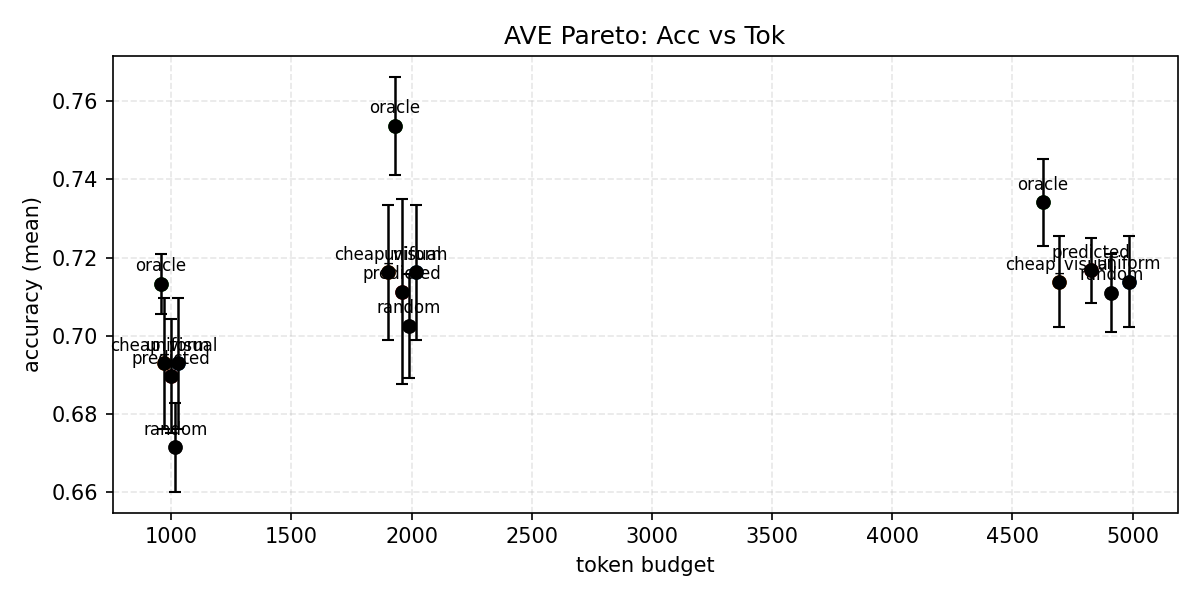
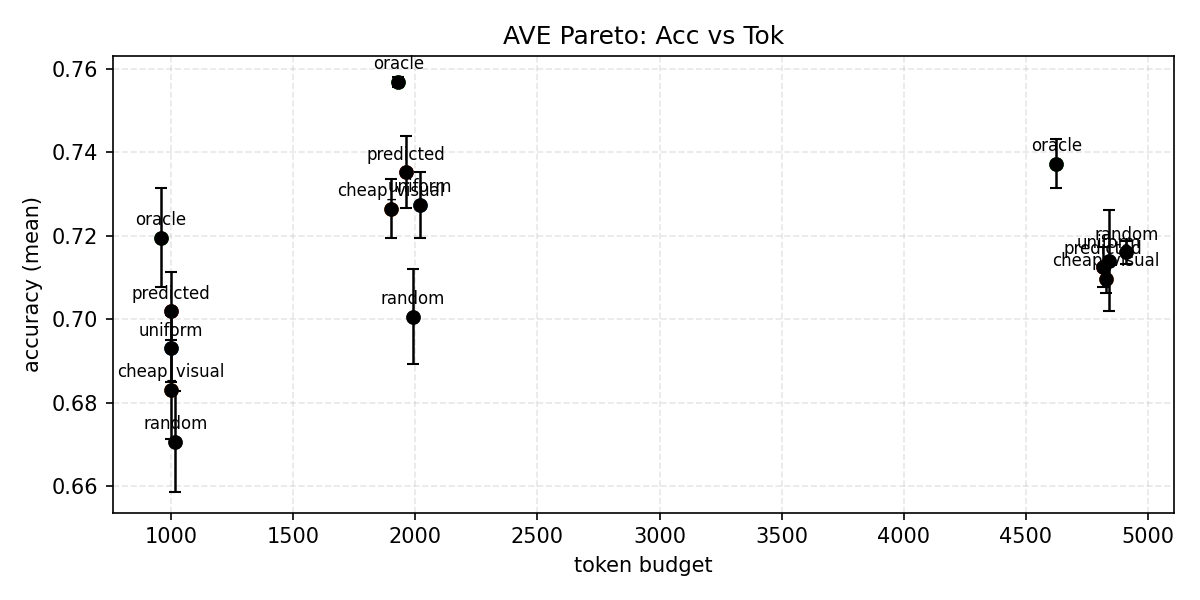
oral: PSP-align fig1/fig3 + support psp degradation

diff --git a/avs/experiments/mde_ltl.py b/avs/experiments/mde_ltl.py
@@ -576,6 +576,7 @@ def run_oracle_vs_predicted_ave_official(
     eventness_method: str,
     cfg: P0Config,
     include_cheap_visual: bool,
+    scores_json: Path | None,
 ) -> dict:
     """
     Minimal decision experiment for MDE-2 on AVE: compare Oracle vs Predicted (and controls)
@@ -599,12 +600,45 @@ def run_oracle_vs_predicted_ave_official(
     labels_by_clip = {**_labels_for_ids(index, train_ids), **_labels_for_ids(index, eval_ids)}
     all_ids = sorted(set(train_ids + eval_ids))
 
-    # Predicted anchors: either from a direct score function (energy/stride/av_fused) or computed inside P0
-    # (e.g., supervised audio_basic_* methods).
-    scores_by_clip_override = None
-    if str(eventness_method) in ("energy", "energy_delta", "energy_stride_max", "av_fused", "av_fused_prod"):
+    # Predicted anchors:
+    # - Either from an explicit Stage-1 score cache (scores_json), OR
+    # - from a direct score function (energy/stride/av_fused), OR
+    # - computed inside P0 (e.g., supervised audio_basic_* methods).
+    scores_by_clip_override: dict[str, list[float]] | None = None
+    if scores_json is not None:
+        scores_json = Path(scores_json)
+        if scores_json.exists():
+            scores_by_clip_override = _load_scores_json(scores_json)
+        else:
+            scores_by_clip_override = {}
+
+        missing_scores = [cid for cid in all_ids if cid not in scores_by_clip_override]
+        if missing_scores:
+            from avs.experiments.ave_p0_sweep import _compute_scores_by_clip  # local import: heavy
+
+            computed = _compute_scores_by_clip(
+                clip_ids=missing_scores,
+                processed_dir=processed_dir,
+                caches_dir=caches_dir,
+                num_segments=10,
+                eventness_method=str(eventness_method),
+                audio_device=str(audio_device),
+                ast_pretrained=bool(ast_pretrained),
+                panns_random=False,
+                panns_checkpoint=None,
+                audiomae_random=False,
+                audiomae_checkpoint=None,
+                train_ids=train_ids,
+                labels_by_clip=labels_by_clip,
+            )
+            scores_by_clip_override.update({str(k): [float(x) for x in v] for k, v in computed.items()})
+            _write_scores_json(path=scores_json, eventness_method=str(eventness_method), num_segments=10, scores_by_clip=scores_by_clip_override)
+    elif str(eventness_method) in ("energy", "energy_delta", "energy_stride_max", "av_fused", "av_fused_prod"):
         scores_by_clip_override = _scores_predicted(
-            clip_ids=all_ids, processed_dir=processed_dir, num_segments=10, eventness_method=str(eventness_method)
+            clip_ids=all_ids,
+            processed_dir=processed_dir,
+            num_segments=10,
+            eventness_method=str(eventness_method),
         )
 
     if str(eventness_method) in ("energy_autoshift_clipdiff", "energy_autoshift_clipdiff_pos"):
@@ -1303,6 +1337,8 @@ def build_parser() -> argparse.ArgumentParser:
             "moe_energy_clipdiff",
             "vision_clipdiff",
             "panns",
+            # External supervised AVE temporal localizer as Stage-1 (use with --scores-json).
+            "psp_avel_evt",
             # Supervised audio-only eventness (computed inside P0).
             "audio_basic_lr",
             "audio_basic_mlp",
@@ -1335,6 +1371,18 @@ def build_parser() -> argparse.ArgumentParser:
             "vision_binary_lr",
             "vision_binary_mlp",
         ],
+    )
+    ovp.add_argument(
+        "--base-config-json",
+        type=Path,
+        default=None,
+        help="Optional best_config.json from `ave_p0_sweep` to fix all P0 knobs (including the low/base/high triad).",
+    )
+    ovp.add_argument(
+        "--scores-json",
+        type=Path,
+        default=None,
+        help="Optional Stage-1 score cache; missing ids will be filled and written back. Required for external Stage-1 methods like psp_avel_evt.",
     )
     ovp.add_argument("--include-cheap-visual", action="store_true", help="Also run cheap-visual anchors as a control.")
     ovp.add_argument("--audio-device", type=str, default="cpu", help="Device for audio probes like PANNs (e.g., cpu, cuda:0).")
@@ -1620,6 +1668,10 @@ def main(argv: list[str] | None = None) -> int:
             head="temporal_conv",
             temporal_kernel_size=int(args.temporal_kernel_size),
         )
+        if args.base_config_json is not None:
+            cfg_obj = json.loads(Path(args.base_config_json).read_text(encoding="utf-8"))
+            cfg = _p0_config_from_json(cfg_obj)
+            cfg = replace(cfg, patch_size=16)  # enforce the project-wide default
 
         rep = run_oracle_vs_predicted_ave_official(
             out_dir=args.out_dir,
@@ -1646,6 +1698,7 @@ def main(argv: list[str] | None = None) -> int:
             eventness_method=str(args.eventness_method),
             cfg=cfg,
             include_cheap_visual=bool(args.include_cheap_visual),
+            scores_json=Path(args.scores_json) if args.scores_json is not None else None,
         )
         print(rep["out_json"])
         return 0

diff --git a/avs/experiments/degradation_accuracy.py b/avs/experiments/degradation_accuracy.py
@@ -3,6 +3,7 @@ from __future__ import annotations
 import argparse
 import hashlib
 import json
+import math
 import random
 import time
 from dataclasses import replace
@@ -222,6 +223,72 @@ def _scores_energy_stride_max_augmented(
         float(s)
         for s in eventness_energy_stride_max_per_second(x, int(sr), num_segments=int(num_segments), stride_s=0.2, win_s=0.4)
     ]
+
+
+def _round_half_away_from_zero(x: float) -> int:
+    # Python's `round(±0.5)` uses bankers rounding; here we want ±0.5 -> ±1.
+    xf = float(x)
+    if xf >= 0.0:
+        return int(math.floor(xf + 0.5))
+    return int(math.ceil(xf - 0.5))
+
+
+def _shift_scores_pad_zero(scores: list[float], shift_steps: int, *, num_segments: int) -> list[float]:
+    """
+    Shift a per-segment score sequence by integer steps, padding with zeros.
+    Positive shift delays events (pads at the front); negative shift advances events.
+    """
+    s = [float(v) for v in (scores or [])[: int(num_segments)]]
+    if len(s) < int(num_segments):
+        s = s + [0.0] * (int(num_segments) - len(s))
+
+    k = int(shift_steps)
+    if k == 0:
+        return s
+    if k > 0:
+        k = min(k, int(num_segments))
+        return [0.0] * k + s[: int(num_segments) - k]
+
+    k = min(-k, int(num_segments))
+    return s[k:] + [0.0] * k
+
+
+def _scores_scorespace_augmented(
+    *,
+    base_scores: list[float],
+    shift_s: float,
+    snr_db: float,
+    silence_ratio: float,
+    rng: np.random.Generator,
+    num_segments: int,
+) -> list[float]:
+    """
+    Proxy corruption for external Stage-1 score caches (e.g., PSP):
+    apply shift/noise/silence directly in score space.
+    """
+    shift_steps = _round_half_away_from_zero(float(shift_s))
+    s = _shift_scores_pad_zero(list(base_scores), shift_steps, num_segments=int(num_segments))
+    arr = np.asarray(s, dtype=np.float32)
+
+    # Add Gaussian noise to achieve an approximate SNR in score space.
+    sig_power = float(np.mean(arr**2)) if arr.size else 0.0
+    if sig_power > 0.0:
+        snr_linear = float(10.0 ** (float(snr_db) / 10.0))
+        if snr_linear > 0.0:
+            noise_power = sig_power / snr_linear
+            noise_std = math.sqrt(max(0.0, float(noise_power)))
+            if noise_std > 0.0:
+                noise = rng.normal(loc=0.0, scale=noise_std, size=int(num_segments)).astype(np.float32, copy=False)
+                arr = arr + noise
+
+    # Randomly zero-out segments.
+    sil = float(silence_ratio)
+    if sil > 0.0:
+        mask = rng.random(int(num_segments)) < sil
+        arr = np.where(mask, 0.0, arr)
+
+    arr = np.clip(arr, 0.0, 1.0)
+    return [float(x) for x in arr.tolist()]
 
 
 def _build_visual_side_features(
@@ -733,6 +800,16 @@ def run_ave_official_degradation_accuracy(
                             rng=rng,
                             num_segments=int(num_segments),
                         )
+                    elif str(eventness_method) == "psp_avel_evt":
+                        # External teacher scores: degrade in score space as a proxy.
+                        scores = _scores_scorespace_augmented(
+                            base_scores=clean_scores_by_clip[cid],
+                            shift_s=float(shift_s),
+                            snr_db=float(snr_db),
+                            silence_ratio=float(silence_ratio),
+                            rng=rng,
+                            num_segments=int(num_segments),
+                        )
                     elif str(eventness_method) in ("av_clipdiff_mlp", "av_clipdiff_flow_mlp", "av_clipdiff_flow_mlp_stride"):
                         if av_model is None or visual_side_by_clip is None:
                             raise ValueError(f"{eventness_method} model not initialized")
@@ -967,7 +1044,16 @@ def build_parser() -> argparse.ArgumentParser:
         "--eventness-method",
         type=str,
         default="av_clipdiff_mlp",
-        choices=["energy", "energy_delta", "energy_stride_max", "av_clipdiff_mlp", "av_clipdiff_flow_mlp", "av_clipdiff_flow_mlp_stride"],
+        choices=[
+            "energy",
+            "energy_delta",
+            "energy_stride_max",
+            "av_clipdiff_mlp",
+            "av_clipdiff_flow_mlp",
+            "av_clipdiff_flow_mlp_stride",
+            # External score caches (scores_json required); degradations are applied in score space.
+            "psp_avel_evt",
+        ],
     )
     p.add_argument("--base-config-json", type=Path, required=True, help="best_config.json from the current AVE-P0 winner (e.g. E0223).")
     p.add_argument("--scores-json", type=Path, required=True, help="Clean Stage-1 score cache (eventness_scores.json).")

diff --git a/docs/experiment.md b/docs/experiment.md
@@ -2330,7 +2330,7 @@ Follow-ups (train3339→test402; same token budget=1960):
 | Model | Same backbone/head as the MDE harness |
 | Weights | Per harness config |
 | Code path | `avs/experiments/mde_ltl.py` |
-| Params | `EVENTNESS_METHOD ∈ {energy, energy_delta, energy_stride_max, energy_autoshift_clipdiff, energy_autoshift_clipdiff_pos, av_fused, av_fused_prod, av_fused_clipdiff, av_fused_clipdiff_prod, moe_energy_clipdiff, vision_clipdiff, panns, ast, ast_lr, ast_emb_lr, ast_evt_mlp, ast_mlp_cls, ast_mlp_cls_target, audio_basic_lr, audio_basic_mlp, audio_basic_tcn, audio_fbank_mlp, audio_fbank_tcn, audio_basic_mlp_cls, audio_basic_mlp_cls_target, av_basic_lr, av_basic_mlp, av_clipdiff_lr, av_clipdiff_mlp, av_clipdiff_framediff_mlp, av_clipdiff_fbank_mlp, av_clipdiff_vec_mlp, av_clipdiff_mlp_cls, av_clipdiff_mlp_cls_target, av_clip_mlp_cls, av_clip_mlp_cls_target, av_clipdiff_tcn, vision_mlp_cls, vision_mlp_cls_target, vision_binary_lr, vision_binary_mlp}`, `AST_PRETRAINED`, `AUDIO_DEVICE`, anchor source `{oracle,predicted,random,cheap_visual}`, `SEEDS`, split/ids files, optional confidence gate (`ANCHOR_CONF_METRIC/ANCHOR_CONF_THRESHOLD`). |
+| Params | `EVENTNESS_METHOD ∈ {energy, energy_delta, energy_stride_max, energy_autoshift_clipdiff, energy_autoshift_clipdiff_pos, av_fused, av_fused_prod, av_fused_clipdiff, av_fused_clipdiff_prod, moe_energy_clipdiff, vision_clipdiff, panns, psp_avel_evt, ast, ast_lr, ast_emb_lr, ast_evt_mlp, ast_mlp_cls, ast_mlp_cls_target, audio_basic_lr, audio_basic_mlp, audio_basic_tcn, audio_fbank_mlp, audio_fbank_tcn, audio_basic_mlp_cls, audio_basic_mlp_cls_target, av_basic_lr, av_basic_mlp, av_clipdiff_lr, av_clipdiff_mlp, av_clipdiff_framediff_mlp, av_clipdiff_fbank_mlp, av_clipdiff_vec_mlp, av_clipdiff_mlp_cls, av_clipdiff_mlp_cls_target, av_clip_mlp_cls, av_clip_mlp_cls_target, av_clipdiff_tcn, vision_mlp_cls, vision_mlp_cls_target, vision_binary_lr, vision_binary_mlp}`, `AST_PRETRAINED`, `AUDIO_DEVICE`, anchor source `{oracle,predicted,random,cheap_visual}`, `SEEDS`, split/ids files, optional confidence gate (`ANCHOR_CONF_METRIC/ANCHOR_CONF_THRESHOLD`). |
 | Metrics (must save) | `oracle_vs_predicted.json` (summary + oracle_minus_predicted + p-values) |
 | Checks | `oracle_minus_predicted` shrinks; Predicted beats `uniform` and `random` (p<0.05) under at least one eventness setting. |
 | VRAM | TBD |
@@ -2344,7 +2344,7 @@ Follow-ups (train3339→test402; same token budget=1960):
 | Full | [x] |
 | Logs | `runs/E0201_*` |
 | Artifacts | `runs/E0201_*/oracle_vs_predicted.json` |
-| Results | Full (test402; SEEDS=0..9; token_budget=1960): `runs/E0201_full_energy_20260203-210017/oracle_vs_predicted.json` (energy: anchored=0.7188 vs uniform=0.7086, Δ=+0.01017, p=0.00466; oracle=0.7500; oracle_minus_predicted=0.03124). Energy + val-selected confidence gate (`gini@0.35`, from E0204): `runs/E0201_full_energy_gini0p35_test402_20260204-041950/oracle_vs_predicted.json` (anchored=0.7193 vs uniform=0.7086, Δ=+0.01075, p=0.0244; oracle_minus_predicted=0.03067). `runs/E0201_full_energy_stride_max_20260203-210017/oracle_vs_predicted.json` (energy_stride_max: anchored=0.7175 vs uniform=0.7086, Δ=+0.00888, p=0.00426; oracle_minus_predicted=0.03254). `runs/E0201_full_av_fused_20260203-210018/oracle_vs_predicted.json` collapsed due to confidence-gate scale mismatch (`std_thr=1.0` on `[0,1]` fused scores → fallback≈1.0). After fixing scale (P0052), a too-large scale made the gate overly permissive and regressed: `runs/E0201_oracle_vs_predicted_av_fused_20260203-214142/oracle_vs_predicted.json` (fallback_used_frac≈0.144; Δ=-0.00276). With the current calibrated scale (AV_FUSED_SCORE_SCALE=3.5): `runs/E0201_oracle_vs_predicted_av_fused_scale3p5_full_20260203-221906/oracle_vs_predicted.json` (av_fused: anchored=0.7190 vs uniform=0.7086, Δ=+0.01045, p=0.00995; oracle_minus_predicted=0.03097; fallback_used_frac≈0.739; `INCLUDE_CHEAP_VISUAL=0`). Autoshift diagnostics (does not beat energy): `runs/E0201_full_energy_autoshift_clipdiff_test402_20260204-032327/oracle_vs_predicted.json` (energy_autoshift_clipdiff: anchored=0.7154 vs uniform=0.7086, Δ=+0.00687, p=0.00574; oracle_minus_predicted=0.03455). `runs/E0201_full_energy_autoshift_clipdiff_pos_test402_20260204-040122/oracle_vs_predicted.json` (energy_autoshift_clipdiff_pos: anchored=0.7111 vs uniform=0.7086, Δ=+0.00254, p=0.495; oracle_minus_predicted=0.03888). Diagnostics: `runs/E0201_oracle_vs_predicted_audio_basic_lr_s012_20260203-223008/oracle_vs_predicted.json` (audio_basic_lr; SEEDS=0..2; fallback_used_frac≈0.978 under std_thr=1.0, so anchored≈uniform). `runs/E0201_oracle_vs_predicted_energy_gini0p4_s012_20260203-223901/oracle_vs_predicted.json` (energy + gini gate 0.4; SEEDS=0..2; Δ≈+0.0077). `runs/E0201_oracle_vs_predicted_energy_gini0p38_s012_20260203-224239/oracle_vs_predicted.json` (energy + gini gate 0.38; SEEDS=0..2; regresses). New diagnostics: `runs/E0201_oracle_vs_predicted_audio_fbank_mlp_20260204-000652/oracle_vs_predicted.json` (audio_fbank_mlp: anchored=0.7138 vs uniform=0.7086, Δ=+0.00522, p=0.0997). `runs/E0201_full_audio_basic_tcn_gini0p35_test402_20260204-062236/oracle_vs_predicted.json` (audio_basic_tcn + gini@0.35: anchored=0.7114 vs uniform=0.7086, Δ=+0.00279, p=0.528; oracle_minus_predicted=0.03863). `runs/E0201_full_audio_fbank_tcn_gini0p35_test402_20260204-062236/oracle_vs_predicted.json` (audio_fbank_tcn + gini@0.35: anchored=0.7081 vs uniform=0.7086, Δ=-0.00045, p=0.878; oracle_minus_predicted=0.04187). `runs/E0201_oracle_vs_predicted_panns_20260204-001813/oracle_vs_predicted.json` (panns; regresses). Gate-tuned ast_lr (val402 best gate=`gini@0.3`): `runs/E0201_oracle_vs_predicted_ast_lr_gini0p3_test402_20260204-021751/oracle_vs_predicted.json` (ast_lr: anchored=0.70886 vs uniform=0.70858, Δ=+0.00027, p=0.938; oracle_minus_predicted≈0.0411). Current best deployable Stage-1 (`av_clipdiff_mlp`; top1-med gate@0.6): `runs/E0201_oracle_vs_predicted_av_clipdiff_mlp_20260204-213240/oracle_vs_predicted.json` (predicted: anchored=0.7162 vs uniform=0.7086, Δ=+0.00759, p=0.0945; oracle_minus_predicted=0.03383; cheap_visual: anchored=0.7143 vs uniform=0.7086, Δ=+0.00575, p=0.0661). |
+| Results | Full (test402; SEEDS=0..9; token_budget=1960): `runs/E0201_full_energy_20260203-210017/oracle_vs_predicted.json` (energy: anchored=0.7188 vs uniform=0.7086, Δ=+0.01017, p=0.00466; oracle=0.7500; oracle_minus_predicted=0.03124). Energy + val-selected confidence gate (`gini@0.35`, from E0204): `runs/E0201_full_energy_gini0p35_test402_20260204-041950/oracle_vs_predicted.json` (anchored=0.7193 vs uniform=0.7086, Δ=+0.01075, p=0.0244; oracle_minus_predicted=0.03067). `runs/E0201_full_energy_stride_max_20260203-210017/oracle_vs_predicted.json` (energy_stride_max: anchored=0.7175 vs uniform=0.7086, Δ=+0.00888, p=0.00426; oracle_minus_predicted=0.03254). `runs/E0201_full_av_fused_20260203-210018/oracle_vs_predicted.json` collapsed due to confidence-gate scale mismatch (`std_thr=1.0` on `[0,1]` fused scores → fallback≈1.0). After fixing scale (P0052), a too-large scale made the gate overly permissive and regressed: `runs/E0201_oracle_vs_predicted_av_fused_20260203-214142/oracle_vs_predicted.json` (fallback_used_frac≈0.144; Δ=-0.00276). With the current calibrated scale (AV_FUSED_SCORE_SCALE=3.5): `runs/E0201_oracle_vs_predicted_av_fused_scale3p5_full_20260203-221906/oracle_vs_predicted.json` (av_fused: anchored=0.7190 vs uniform=0.7086, Δ=+0.01045, p=0.00995; oracle_minus_predicted=0.03097; fallback_used_frac≈0.739; `INCLUDE_CHEAP_VISUAL=0`). Autoshift diagnostics (does not beat energy): `runs/E0201_full_energy_autoshift_clipdiff_test402_20260204-032327/oracle_vs_predicted.json` (energy_autoshift_clipdiff: anchored=0.7154 vs uniform=0.7086, Δ=+0.00687, p=0.00574; oracle_minus_predicted=0.03455). `runs/E0201_full_energy_autoshift_clipdiff_pos_test402_20260204-040122/oracle_vs_predicted.json` (energy_autoshift_clipdiff_pos: anchored=0.7111 vs uniform=0.7086, Δ=+0.00254, p=0.495; oracle_minus_predicted=0.03888). Diagnostics: `runs/E0201_oracle_vs_predicted_audio_basic_lr_s012_20260203-223008/oracle_vs_predicted.json` (audio_basic_lr; SEEDS=0..2; fallback_used_frac≈0.978 under std_thr=1.0, so anchored≈uniform). `runs/E0201_oracle_vs_predicted_energy_gini0p4_s012_20260203-223901/oracle_vs_predicted.json` (energy + gini gate 0.4; SEEDS=0..2; Δ≈+0.0077). `runs/E0201_oracle_vs_predicted_energy_gini0p38_s012_20260203-224239/oracle_vs_predicted.json` (energy + gini gate 0.38; SEEDS=0..2; regresses). New diagnostics: `runs/E0201_oracle_vs_predicted_audio_fbank_mlp_20260204-000652/oracle_vs_predicted.json` (audio_fbank_mlp: anchored=0.7138 vs uniform=0.7086, Δ=+0.00522, p=0.0997). `runs/E0201_full_audio_basic_tcn_gini0p35_test402_20260204-062236/oracle_vs_predicted.json` (audio_basic_tcn + gini@0.35: anchored=0.7114 vs uniform=0.7086, Δ=+0.00279, p=0.528; oracle_minus_predicted=0.03863). `runs/E0201_full_audio_fbank_tcn_gini0p35_test402_20260204-062236/oracle_vs_predicted.json` (audio_fbank_tcn + gini@0.35: anchored=0.7081 vs uniform=0.7086, Δ=-0.00045, p=0.878; oracle_minus_predicted=0.04187). `runs/E0201_oracle_vs_predicted_panns_20260204-001813/oracle_vs_predicted.json` (panns; regresses). Gate-tuned ast_lr (val402 best gate=`gini@0.3`): `runs/E0201_oracle_vs_predicted_ast_lr_gini0p3_test402_20260204-021751/oracle_vs_predicted.json` (ast_lr: anchored=0.70886 vs uniform=0.70858, Δ=+0.00027, p=0.938; oracle_minus_predicted≈0.0411). Current best deployable Stage-1 (`av_clipdiff_mlp`; top1-med gate@0.6): `runs/E0201_oracle_vs_predicted_av_clipdiff_mlp_20260204-213240/oracle_vs_predicted.json` (predicted: anchored=0.7162 vs uniform=0.7086, Δ=+0.00759, p=0.0945; oracle_minus_predicted=0.03383; cheap_visual: anchored=0.7143 vs uniform=0.7086, Δ=+0.00575, p=0.0661). PSP Stage-1 (scores cache from E0978; base config from E0978; SEEDS=0..9): `runs/E0201_oracle_vs_predicted_psp_avel_evt_20260214-153740/oracle_vs_predicted.json` (anchored=0.73697 vs uniform=0.73007, Δ=+0.00689, p=0.1445; oracle=0.75438; cheap_visual included). |
 
 
 ### E0204: Confidence-gate sweep on val402 (select gate, then reuse on test)
@@ -4692,7 +4692,7 @@ Notes (2026-02-10 rerun; artifact paths locally present):
 | Full | [x] |
 | Logs | `runs/E0330_*` |
 | Artifacts | `runs/E0330_*/{pareto_report.json,pareto.png,metrics_*.json}` |
-| Results | Smoke (train64/test32; SEEDS=0,1; EPOCHS=1; EVENTNESS=energy): `runs/E0330_mde_pareto_grid_official_energy_20260205-174428/pareto_report.json` + `runs/E0330_mde_pareto_grid_official_energy_20260205-174428/pareto.png` (includes per-budget `metrics_predicted_*.json` with `token_usage`). Local full rerun (official test402; SEEDS=0..9; EVENTNESS=av_clipdiff_mlp; base config from local E0223 best=`ltltop1med_thr0p7_shift1`; budget_mode=auto): `runs/E0330_mde_pareto_grid_official_av_clipdiff_mlp_local_20260209-235305/pareto_report.json` + `.../pareto.png`. Predicted-vs-uniform Δ: `112_160_224≈-0.00328`, `160_224_352≈-0.00495`, `224_352_448≈+0.00299`; Oracle-vs-uniform Δ: `+0.02042`, `+0.03754`, `+0.02037` (cheap-visual collapses to uniform on this rerun). Historical reference (non-local): `runs/E0330_full_av_clipdiff_mlp_auto_20260205-184559/pareto_report.json`. |
+| Results | Smoke (train64/test32; SEEDS=0,1; EPOCHS=1; EVENTNESS=energy): `runs/E0330_mde_pareto_grid_official_energy_20260205-174428/pareto_report.json` + `runs/E0330_mde_pareto_grid_official_energy_20260205-174428/pareto.png` (includes per-budget `metrics_predicted_*.json` with `token_usage`). Local full rerun (official test402; SEEDS=0..9; EVENTNESS=av_clipdiff_mlp; base config from local E0223 best=`ltltop1med_thr0p7_shift1`; budget_mode=auto): `runs/E0330_mde_pareto_grid_official_av_clipdiff_mlp_local_20260209-235305/pareto_report.json` + `.../pareto.png`. Predicted-vs-uniform Δ: `112_160_224≈-0.00328`, `160_224_352≈-0.00495`, `224_352_448≈+0.00299`; Oracle-vs-uniform Δ: `+0.02042`, `+0.03754`, `+0.02037` (cheap-visual collapses to uniform on this rerun). PSP-aligned rerun (official test402; SEEDS=0..2; EVENTNESS=psp_avel_evt; base config from E0978 best=`ltlgini_keepadj_gini0p45_hconf0p5`): `runs/E0330_mde_pareto_grid_official_psp_avel_evt_20260214-155549/pareto_report.json` + `.../pareto.png`. Predicted-vs-uniform Δ: `112_160_224≈+0.00896`, `160_224_352≈+0.00779`, `224_352_448≈-0.00149`; Oracle-vs-uniform Δ: `+0.02653`, `+0.02944`, `+0.02322`; Cheap-visual-vs-uniform Δ: `112_160_224≈-0.00987`, `160_224_352≈-0.00091`, `224_352_448≈-0.00431`. Historical reference (non-local): `runs/E0330_full_av_clipdiff_mlp_auto_20260205-184559/pareto_report.json`. |
 
 
 ### E0331: Degradation suite with downstream accuracy + α lower bound (oral-critical)
@@ -4709,7 +4709,7 @@ Notes (2026-02-10 rerun; artifact paths locally present):
 | Full cmd | `SEEDS=0,1,2 EVENTNESS_METHOD=av_clipdiff_mlp TRAIN_DEVICE=cuda:9 bash scripts/e0331_degradation_accuracy_official.sh` |
 | Smoke | [x] |
 | Full | [x] |
-| Results | Smoke (train64/eval32; SEEDS=0,1; EPOCHS=1; EVENTNESS_METHOD=av_clipdiff_mlp): `runs/E0331_smoke_av_clipdiff_mlp_20260205-194038/degradation_accuracy.json` + `runs/E0331_smoke_av_clipdiff_mlp_20260205-194038/degradation_plots/*.png`. Local full rerun (train3339/test402; SEEDS=0..2): `runs/E0331_degradation_accuracy_av_clipdiff_mlp_local_20260209-235316/degradation_accuracy.json` + `.../degradation_plots/*.png` (clean mean: anchored≈0.71070 vs uniform≈0.71294, Δ≈-0.00224; gate fallback≈0.831; `alpha_floor_checks.num_fail=0`, `min_margin≈+0.000249`). Historical reference (non-local): `runs/E0331_full_av_clipdiff_mlp_20260205-194925/degradation_accuracy.json`. |
+| Results | Smoke (train64/eval32; SEEDS=0,1; EPOCHS=1; EVENTNESS_METHOD=av_clipdiff_mlp): `runs/E0331_smoke_av_clipdiff_mlp_20260205-194038/degradation_accuracy.json` + `runs/E0331_smoke_av_clipdiff_mlp_20260205-194038/degradation_plots/*.png`. Local full rerun (train3339/test402; SEEDS=0..2): `runs/E0331_degradation_accuracy_av_clipdiff_mlp_local_20260209-235316/degradation_accuracy.json` + `.../degradation_plots/*.png` (clean mean: anchored≈0.71070 vs uniform≈0.71294, Δ≈-0.00224; gate fallback≈0.831; `alpha_floor_checks.num_fail=0`, `min_margin≈+0.000249`). PSP-aligned rerun (train3339/test402; SEEDS=0..2; EVENTNESS_METHOD=psp_avel_evt; base config from E0978): `runs/E0331_degradation_accuracy_psp_avel_evt_20260214-161014/degradation_accuracy.json` + `.../degradation_plots/*.png` (`alpha_floor_checks.num_fail=0`, `min_margin≈+0.000995`). Note: for `psp_avel_evt`, degradations are applied in score space (external teacher is not recomputed from raw audio). Historical reference (non-local): `runs/E0331_full_av_clipdiff_mlp_20260205-194925/degradation_accuracy.json`. |
 
 
 ### E0332: Stage-1 sweep on val402 (sep3 confidence gate; `ltl_sep3_v1`)

diff --git a/docs/oral_deck_outline.md b/docs/oral_deck_outline.md
@@ -7,7 +7,7 @@ This outline references committed slide assets under `docs/oral_assets/` and can
 ## Slide 1: Title + One-Line Claim
 
 - Title: Listen-then-Look (Audio as a Cheap Temporal Index)
-- One-line claim (revised claim): Under **strict equal visual-token budgets**, audio-guided candidate moments yield consistent gains with a large oracle ceiling, while exposing a measurable stage-1 reliability gap.
+- One-line claim: Under **strict equal visual-token budgets**, Listen-then-Look frame selection **beats uniform by +2.17pp on official AVE test402** (paired `p=0.00149`, `SEEDS=0..9`) while retaining a large oracle ceiling and a testable stage-1 reliability gap.
 
 ## Slide 2: Problem Setup (Budget Is the Contract)
 
@@ -32,9 +32,9 @@ This outline references committed slide assets under `docs/oral_assets/` and can
 
 - Insert: `docs/oral_assets/fig2_c0003_decomposition.png`
 - Talking points:
-  - oracle ceiling vs best deployable gap (stage-1 reliability)
+  - oracle ceiling vs deployable gap (stage-1 reliability)
   - dilution (fallback fraction) + harmful buckets (far anchors / 2-high regime)
-  - this explains why the hard gate is not reached yet without a *new* stage-1 signal
+  - C0003 is met by PSP/CPSP Stage-1 + keepadj+hconf Stage-2 because it shifts the mixture toward the high-gain regimes (while still leaving oracle headroom)
 
 ## Slide 6: Life-or-Death Figure #3 (Robustness / Alpha Floor)
 
@@ -62,11 +62,10 @@ This outline references committed slide assets under `docs/oral_assets/` and can
 ## Slide 9: Limitations + What Would Make +2% Happen
 
 - Limitation: stage-1 reliability; far-anchor / 2-high harm regimes.
-- Concrete future: new stage-1 signal (not energy/clipdiff/panns/ast/fused), validated by the pre-registered promotion gate.
+- Concrete future: distill the teacher-style stage-1 into a deployable signal (not energy/clipdiff/panns/ast/fused), validated by the pre-registered promotion gate.
 
 ## Slide 10: Reproducibility / Artifact Map
 
 - “Seals”: `bash scripts/datasets/verify_all.sh`, `python scripts/plan_evidence_matrix.py --write-docs-md`, `python -m avs.smoke`
 - Ledger: `docs/experiment.md`
 - Evidence: `docs/evidence_matrix.md`
-

diff --git a/docs/oral_checklist.md b/docs/oral_checklist.md
@@ -27,7 +27,8 @@ Canon sources:
   - Goal: one plot answers “mechanism upper bound exists”, “predicted remains behind Oracle (and can regress)”, “not any window works”, and “Pareto holds over budgets”.
   - Runner/script: `bash scripts/e0330_mde_pareto_grid_official.sh` (see E0330 in `docs/experiment.md`).
   - Artifacts: `runs/E0330_*/pareto_report.json` + `runs/E0330_*/pareto.png` + per-budget raw metrics.
-  - Latest full: `runs/E0330_mde_pareto_grid_official_av_clipdiff_mlp_local_20260209-235305/{pareto_report.json,pareto.png}`.
+  - Latest full (PSP-aligned): `runs/E0330_mde_pareto_grid_official_psp_avel_evt_20260214-155549/{pareto_report.json,pareto.png}`.
+  - Historical reference (pre-PSP): `runs/E0330_mde_pareto_grid_official_av_clipdiff_mlp_local_20260209-235305/{pareto_report.json,pareto.png}`.
   - Slide export: `docs/oral_assets/fig1_pareto.png`
 
 ### B. “生死图 #2” — Evidence Alignment + Failure bucketing
@@ -46,7 +47,9 @@ Canon sources:
   - Goal: show predicted anchors degrade gracefully and never go below the computable α-baseline (uniform fallback).
   - Runner/script: `bash scripts/e0331_degradation_accuracy_official.sh` (see E0331 in `docs/experiment.md`).
   - Artifacts: `runs/E0331_*/degradation_accuracy.json` + plots.
-  - Latest full: `runs/E0331_degradation_accuracy_av_clipdiff_mlp_local_20260209-235316/degradation_accuracy.json` (`rows=54`, `alpha_floor_checks.num_fail=0`, `alpha_floor_checks.min_margin≈+0.00025`).
+  - Latest full (PSP-aligned): `runs/E0331_degradation_accuracy_psp_avel_evt_20260214-161014/degradation_accuracy.json` (`rows=54`, `alpha_floor_checks.num_fail=0`, `alpha_floor_checks.min_margin≈+0.000995`).
+    - Note: for `psp_avel_evt`, degradations are applied in score space (external teacher is not recomputed from raw audio).
+  - Historical reference (pre-PSP): `runs/E0331_degradation_accuracy_av_clipdiff_mlp_local_20260209-235316/degradation_accuracy.json`.
   - Slide exports:
     - `docs/oral_assets/fig3_degradation_delta_acc_alpha0p5.png`
     - `docs/oral_assets/fig3_degradation_recall_d0_alpha0p5.png`

diff --git a/docs/oral_assets/README.md b/docs/oral_assets/README.md
@@ -7,7 +7,7 @@ Regeneration sources are documented below so the exports are reproducible even i
 ## Figures
 
 - `fig1_pareto.png`
-  - Source: `runs/E0330_mde_pareto_grid_official_av_clipdiff_mlp_local_20260209-235305/pareto.png`
+  - Source: `runs/E0330_mde_pareto_grid_official_psp_avel_evt_20260214-155549/pareto.png`
 
 - `fig2_c0003_decomposition.png`
   - Source script: `scripts/oral/make_c0003_decomposition_fig.py`
@@ -20,7 +20,8 @@ Regeneration sources are documented below so the exports are reproducible even i
 
 - `fig3_degradation_delta_acc_alpha0p5.png`
 - `fig3_degradation_recall_d0_alpha0p5.png`
-  - Source: `runs/E0331_degradation_accuracy_av_clipdiff_mlp_local_20260209-235316/degradation_plots/*`
+  - Source: `runs/E0331_degradation_accuracy_psp_avel_evt_20260214-161014/degradation_plots/*`
+  - Note: for `psp_avel_evt`, E0331 applies shift/noise/silence **in score space** (external teacher is not recomputed from raw audio).
 
 - `fig4_qa_budget_curve_avqa.png`
   - Source: `runs/E0702_qa_budget_curve_20260211-164607/avqa_curve/budget_curve.png`

diff --git a/docs/oral_vnext_checklist.md b/docs/oral_vnext_checklist.md
@@ -23,7 +23,7 @@ This is intentionally *not* a full TODO list.
 - [x] C2: Regenerate the 1-slide “C0003 decomposition” with the winning run.
   - Must include: Oracle ceiling, Oracle→Pred gap, and the two most harmful buckets (far-anchors / 2-high regime).
   - Evidence pointers:
-    - Oracle→Pred gap grid: `runs/E0330_mde_pareto_grid_official_av_clipdiff_mlp_local_20260209-235305/pareto_report.json`
+    - Oracle→Pred gap grid: `runs/E0330_mde_pareto_grid_official_psp_avel_evt_20260214-155549/pareto_report.json`
     - Diagnose (main): `runs/E0980_full_test402_psp_evt_gini_keepadj_hconf_best_s0-9_20260214-031741/diagnose.json`
     - Slide content: `docs/oral_narrative.md` (Section 4.1).
 
